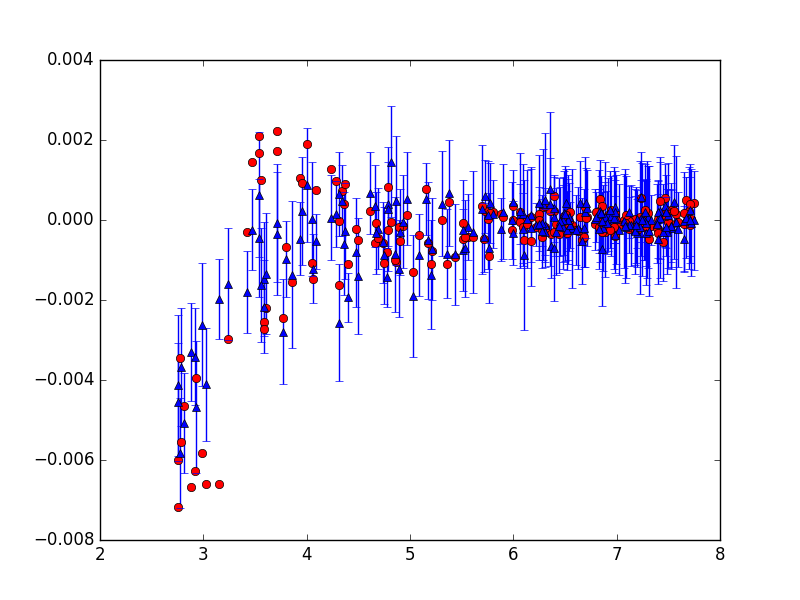
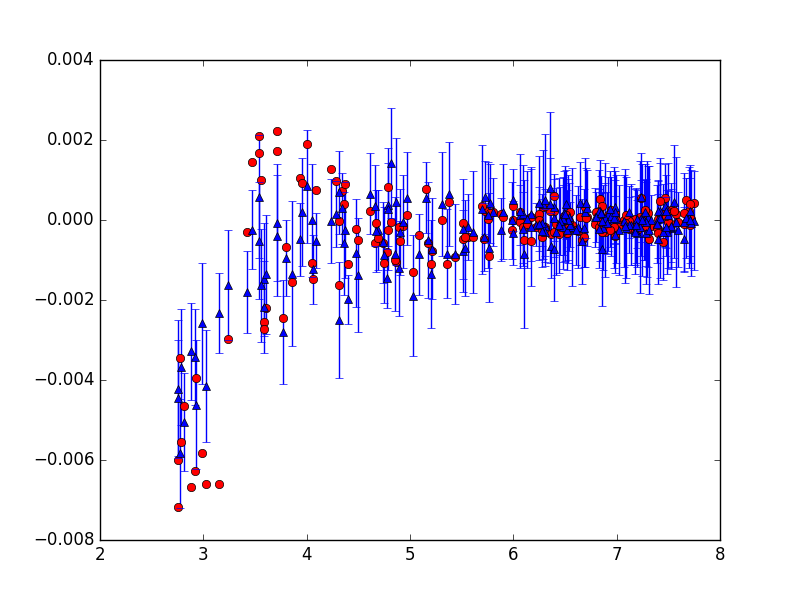
update

diff --git a/GP.py b/GP.py
@@ -76,12 +76,12 @@ def get_parameters_for_Gaussian(data,energy):
 	x_test = []
 	y_test = []
 	number = 0
-	count1= 3000
-	count2=3000
-	count3=3000
-	count4=3000
-	count5=3000
-	count6=3000
+	count1=20000
+	count2=20000
+	count3=20000
+	count4=20000
+	count5=20000
+	count6=20000
 	for dimer, ene in zip(data, energy):
 		number+= 1
 		distance12 = distance_2_coordinates(dimer[0],dimer[1])
@@ -120,6 +120,46 @@ def get_parameters_for_Gaussian(data,energy):
 				distance2Oxygens, cosXaO1O4, cosXbO4O1, diheXbO4O1Xa, DiheHmXaO1O4, DiheHnXbO4O1]) 
 			y_test.append(ene)
 		else:
+			'''
+			print ene
+			if ene <=-0.006 and ene>-0.009 and count1>=0:
+				count1-=1
+				x_train.append([average1213, dif1213, distance23, average4546, dif4546, distance56, 
+					distance2Oxygens, cosXaO1O4, cosXbO4O1, diheXbO4O1Xa, DiheHmXaO1O4, DiheHnXbO4O1]) 
+				y_train.append(ene)
+			elif ene <=-0.004 and ene>-0.006 and count2>=0:
+				count2-=1
+				x_train.append([average1213, dif1213, distance23, average4546, dif4546, distance56, 
+					distance2Oxygens, cosXaO1O4, cosXbO4O1, diheXbO4O1Xa, DiheHmXaO1O4, DiheHnXbO4O1]) 
+				y_train.append(ene)
+			elif ene <=-0.002 and ene>-0.004 and count3>=0:
+				count3-=1
+				x_train.append([average1213, dif1213, distance23, average4546, dif4546, distance56, 
+					distance2Oxygens, cosXaO1O4, cosXbO4O1, diheXbO4O1Xa, DiheHmXaO1O4, DiheHnXbO4O1]) 
+				y_train.append(ene)
+			elif ene <=0.000 and ene>-0.002 and count4>=0:
+				count4-=1
+				x_train.append([average1213, dif1213, distance23, average4546, dif4546, distance56, 
+					distance2Oxygens, cosXaO1O4, cosXbO4O1, diheXbO4O1Xa, DiheHmXaO1O4, DiheHnXbO4O1]) 
+				y_train.append(ene)
+			elif ene <=0.001 and ene>0.000 and count5>=0:
+				count5-=1
+				x_train.append([average1213, dif1213, distance23, average4546, dif4546, distance56, 
+					distance2Oxygens, cosXaO1O4, cosXbO4O1, diheXbO4O1Xa, DiheHmXaO1O4, DiheHnXbO4O1]) 
+				y_train.append(ene)
+			elif ene <=0.003 and ene> 0.001 and count6>=0:
+				count6-=1
+				x_train.append([average1213, dif1213, distance23, average4546, dif4546, distance56, 
+					distance2Oxygens, cosXaO1O4, cosXbO4O1, diheXbO4O1Xa, DiheHmXaO1O4, DiheHnXbO4O1]) 
+				y_train.append(ene)
+			'''
+			if distance2Oxygens <5:
+				count1-=1
+				x_train.append([average1213, dif1213, distance23, average4546, dif4546, distance56, 
+					distance2Oxygens, cosXaO1O4, cosXbO4O1, diheXbO4O1Xa, DiheHmXaO1O4, DiheHnXbO4O1]) 
+				y_train.append(ene)
+
+			'''
 			if distance2Oxygens <=3 and count1>=0:
 				count1-=1 
 				x_train.append([average1213, dif1213, distance23, average4546, dif4546, distance56, 
@@ -150,6 +190,7 @@ def get_parameters_for_Gaussian(data,energy):
 				x_train.append([average1213, dif1213, distance23, average4546, dif4546, distance56, 
 					distance2Oxygens, cosXaO1O4, cosXbO4O1, diheXbO4O1Xa, DiheHmXaO1O4, DiheHnXbO4O1]) 
 				y_train.append(ene)
+			'''
 	print("a")	
 
 	print count1
@@ -212,7 +253,7 @@ def plot(x,y,e,truey):
 	truey = np.array(truey)
 	plt.plot(x, truey, 'ro')
 	plt.errorbar(x, y, e, linestyle='None', marker='^')
-	plt.savefig('all.png')
+	plt.savefig('5anddown.png')
 
 def main():
 	'''
